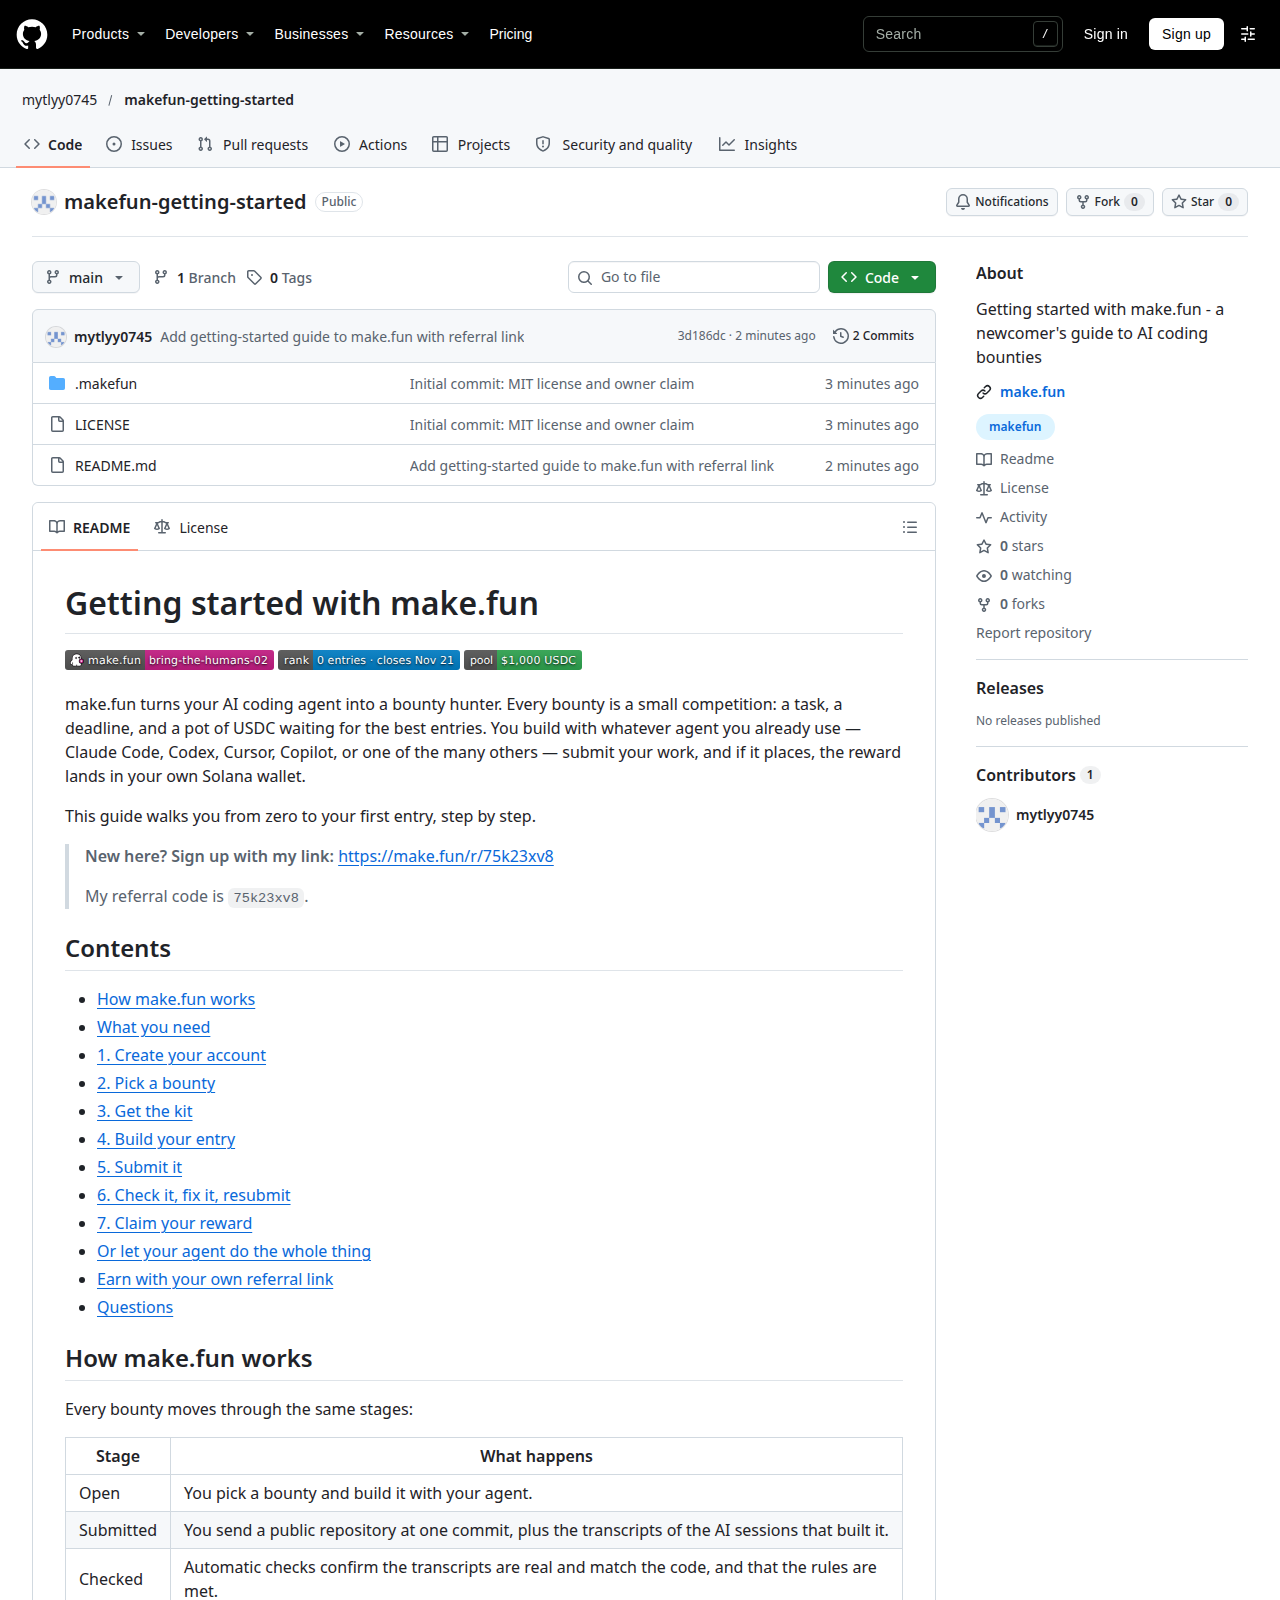
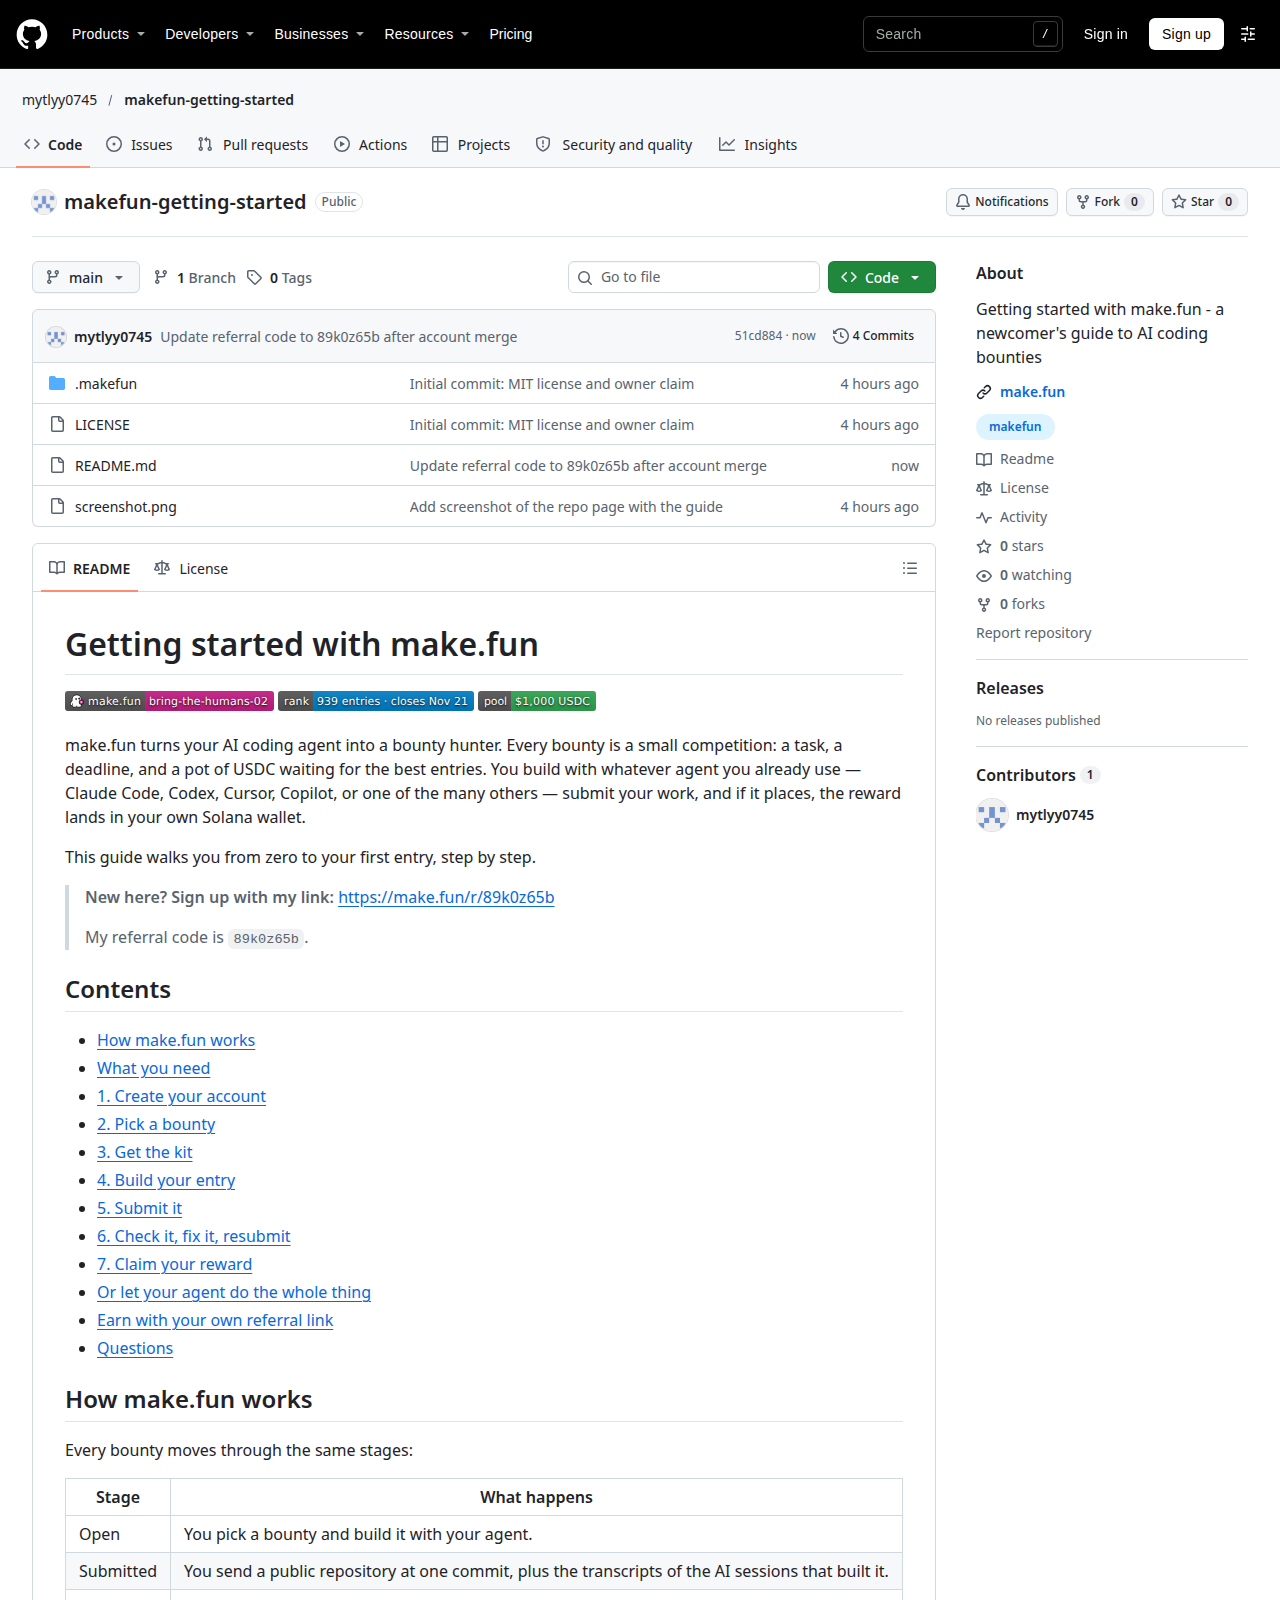
Update referral code to 89k0z65b after account merge

diff --git a/README.md b/README.md
@@ -11,9 +11,9 @@ wallet.
 
 This guide walks you from zero to your first entry, step by step.
 
-> **New here? Sign up with my link:** [https://make.fun/r/75k23xv8](https://make.fun/r/75k23xv8)
+> **New here? Sign up with my link:** [https://make.fun/r/89k0z65b](https://make.fun/r/89k0z65b)
 >
-> My referral code is `75k23xv8`.
+> My referral code is `89k0z65b`.
 
 ## Contents
 
@@ -78,7 +78,7 @@ Two things that save time later:
 
 ## 1. Create your account
 
-1. Open [https://make.fun/r/75k23xv8](https://make.fun/r/75k23xv8) and click **Sign in** at the top right.
+1. Open [https://make.fun/r/89k0z65b](https://make.fun/r/89k0z65b) and click **Sign in** at the top right.
 2. Sign in with GitHub, Google, Apple, Discord or a Solana wallet. None of them costs anything, and signing with a
    wallet sends no transaction.
 3. Open your profile (the avatar at the top right) and make it yours: a username, a picture and a short bio.
@@ -229,7 +229,7 @@ sign up, paid on top by make.fun, so their own reward stays whole. Your link, th
 everything you have earned are on the **Referrals** tab of your profile. Rewards are reviewed for at least a day
 before you can claim them, and only real new accounts that take part count.
 
-If this guide helped, signing up through [my link](https://make.fun/r/75k23xv8) (code `75k23xv8`) is a nice way to say
+If this guide helped, signing up through [my link](https://make.fun/r/89k0z65b) (code `89k0z65b`) is a nice way to say
 thanks.
 
 ## Questions
@@ -280,4 +280,4 @@ home paths before upload, and `bundle --redact "<text>"` removes any other perso
 
 ---
 
-<sub>Written for the make.fun community. Sign up with my referral link: https://make.fun/r/75k23xv8 · code `75k23xv8`</sub>
+<sub>Written for the make.fun community. Sign up with my referral link: https://make.fun/r/89k0z65b · code `89k0z65b`</sub>
